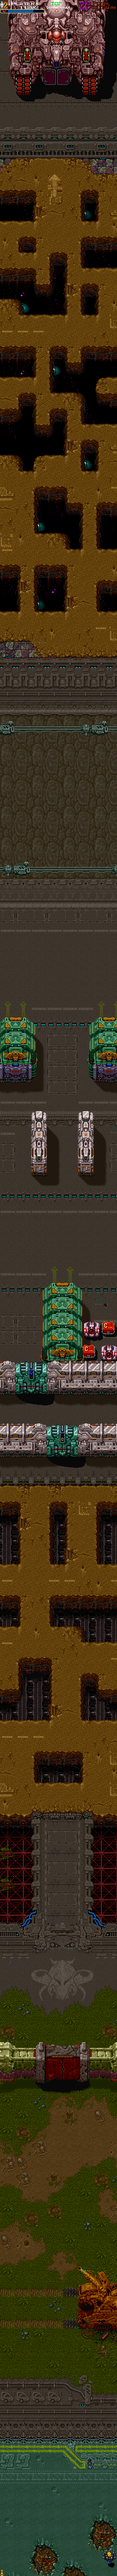
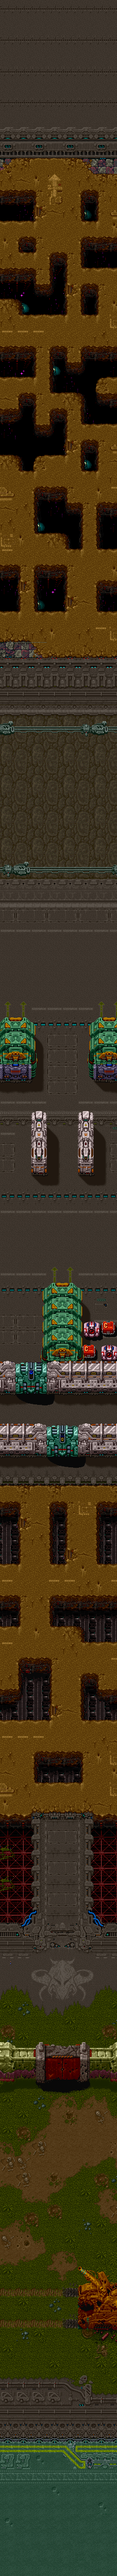
UI Welcome implemented and lvl 2 full explorable

diff --git a/Outzone/Module_Welcome.cpp b/Outzone/Module_Welcome.cpp
@@ -2,57 +2,48 @@
 #include "Application.h"
 #include "ModuleTextures.h"
 #include "ModuleRender.h"
+#include "Module_Welcome.h"
 #include "Module_lvl_1.h"
-#include "Module_lvl_2.h"
 #include "ModuleChangeScene.h"
 #include "ModulePlayer.h"
 #include "ModuleInput.h"
 
-Module_lvl_1::Module_lvl_1()
+Module_Welcome::Module_Welcome()
 {
-
-	// Level 1 
+	// Welcome UI
 	background.x = 0;
 	background.y = 0;
 	background.w = 240;
-	background.h = 3900;
-
+	background.h = 320;
 }
 
-Module_lvl_1::~Module_lvl_1()
-{}
+Module_Welcome::~Module_Welcome(){}
 
-
-
-
-// Load assets
-bool Module_lvl_1::Start()
+bool Module_Welcome::Start()
 {
-	
 	LOG("Loading background assets");
-	graphics = App->textures->Load("level1.png");
-	
+	graphics = App->textures->Load("Welcome_Screen.png");
+	App->render->escalated_screen = 0;
+
 	return true;
 }
-
 // Update: draw background
-update_status Module_lvl_1::Update()
+update_status Module_Welcome::Update()
 {
-	
 
 	if (IsEnabled() == true){
 		// Draw everything --------------------------------------
-		App->render->Blit(graphics, 0, -3570, &background, 0.75f); // lvl 1 background
+		App->render->Blit(graphics, 0, 0, &background, 0.75f);
 		if (App->input->keyboard[SDL_SCANCODE_SPACE] == 1){
-			App->change_scene->ChangeScene(App->lvl_2, App->lvl_1, 1.0f);
+			App->change_scene->ChangeScene(App->welcome, App->lvl_1, 1.0f);
 		}
 	}
 	return UPDATE_CONTINUE;
 }
 
-bool Module_lvl_1::CleanUp()
+bool Module_Welcome::CleanUp()
 {
 	LOG("Unloading lvl 1 stage");
-	App->render->escalated_screen = SCREEN_SIZE * App->lvl_2->map_size * 1.23f;
+	App->render->escalated_screen = SCREEN_SIZE * App->lvl_1->map_size * 1.2f;
 	return true;
 }

diff --git a/Outzone/Module_lvl_2.cpp b/Outzone/Module_lvl_2.cpp
@@ -7,6 +7,7 @@
 #include "ModuleChangeScene.h"
 #include "ModuleInput.h"
 #include "ModulePlayer.h"
+
 Module_lvl_2::Module_lvl_2()
 {
 
@@ -26,17 +27,19 @@ bool Module_lvl_2::Start()
 {
 	LOG("Loading background assets");
 	graphics = App->textures->Load("level2.png");
-	App->player->Enable();
+	
 	return true;
 }
 
 // Update: draw background
 update_status Module_lvl_2::Update()
 {
-	// Draw everything --------------------------------------
-	App->render->Blit(graphics, 0, -3580, &background, 0.75f); // lvl 2 background
-	if (App->input->keyboard[SDL_SCANCODE_SPACE] == 1){
-		App->change_scene->ChangeScene(App->lvl_1, App->lvl_2, 1.0f);
+	if (IsEnabled() == true){
+		// Draw everything --------------------------------------
+		App->render->Blit(graphics, 0, -4940, &background, 0.75f); // lvl 2 background
+		if (App->input->keyboard[SDL_SCANCODE_SPACE] == 1){
+			App->change_scene->ChangeScene(App->lvl_1, App->lvl_2, 1.0f);
+		}
 	}
 	return UPDATE_CONTINUE;
 }
@@ -44,6 +47,6 @@ update_status Module_lvl_2::Update()
 bool Module_lvl_2::CleanUp()
 {
 	LOG("Unloading lvl 2 stage");
-	App->player->Disable();
+	
 	return true;
 }

diff --git a/Outzone/ModuleChangeScene.cpp b/Outzone/ModuleChangeScene.cpp
@@ -6,6 +6,7 @@
 #include "SDL/include/SDL_timer.h"
 #include "Module_lvl_1.h"
 #include "Module_lvl_2.h"
+#include "Module_Welcome.h"
 #include "ModuleChangeScene.h"
 
 ModuleChangeScene::ModuleChangeScene()
@@ -39,15 +40,29 @@ update_status ModuleChangeScene::Update()
 	{
 		if (now >= total_time)
 		{
-			// TODO 2: enable / disable the modules received when FadeToBlacks() gets called
-			if (App->lvl_1->IsEnabled()){
-				App->lvl_1->Disable();
-				App->lvl_2->Enable();
-			}
-			else{
-				App->lvl_2->Disable();
+			
+			if (App->welcome->IsEnabled())
+			{
+				App->welcome->Disable();
 				App->lvl_1->Enable();
 			}
+
+			else {
+				if (App->lvl_1->IsEnabled())
+				{
+					App->lvl_1->Disable();
+					App->lvl_2->Enable();
+				}
+
+				else{
+					if (App->lvl_2->IsEnabled())
+					{
+						App->lvl_2->Disable();
+						App->lvl_1->Enable();
+					}
+				}
+			}
+
 			// ---
 			total_time += total_time;
 			start_time = SDL_GetTicks();

diff --git a/Outzone/ModuleRender.cpp b/Outzone/ModuleRender.cpp
@@ -4,6 +4,7 @@
 #include "ModuleWindow.h"
 #include "ModuleInput.h"
 #include "Module_lvl_1.h"
+#include "Module_lvl_2.h"
 #include "SDL/include/SDL.h"
 
 
@@ -51,8 +52,8 @@ update_status ModuleRender::PreUpdate()
 
 update_status ModuleRender::Update()	
 {
-	int escalated_screen = SCREEN_SIZE * MAP_SIZE * 1.2f;
-	int speed = 10;
+	
+	int speed = 100;
 
 	if (App->input->keyboard[SDL_SCANCODE_UP] == 1 && camera.y < escalated_screen){
 		camera.y += speed;
@@ -89,6 +90,7 @@ bool ModuleRender::Blit(SDL_Texture* texture, int x, int y, SDL_Rect* section, f
 {
 	bool ret = true;
 	SDL_Rect rect;
+
 	rect.x = (int)(camera.x * speed) + x * SCREEN_SIZE;
 	rect.y = (int)(camera.y * speed) + y * SCREEN_SIZE;
 

diff --git a/Outzone/Module_Welcome.h b/Outzone/Module_Welcome.h
@@ -1,5 +1,5 @@
-#ifndef __lvl_2__
-#define __lvl_2__
+#ifndef __ModuleWelcome_H__
+#define __ModuleWelcome_H__
 
 #include "Module.h"
 #include "Animation.h"
@@ -7,11 +7,11 @@
 
 struct SDL_Texture;
 
-class Module_lvl_2 : public Module
+class Module_Welcome : public Module
 {
 public:
-	Module_lvl_2();
-	~Module_lvl_2();
+	Module_Welcome();
+	~Module_Welcome();
 
 	bool Start();
 	update_status Update();
@@ -21,7 +21,7 @@ public:
 
 	SDL_Texture* graphics = nullptr;
 	SDL_Rect background;
-	uint map_size = 5279;
+
 };
 
 #endif

diff --git a/Outzone/Application.cpp b/Outzone/Application.cpp
@@ -7,6 +7,7 @@
 #include "Module_lvl_1.h"
 #include "Module_lvl_2.h"
 #include "ModulePlayer.h"
+#include "Module_Welcome.h"
 #include"ModuleChangeScene.h"
 
 Application::Application()
@@ -20,6 +21,7 @@ Application::Application()
 	modules[6] = player = new ModulePlayer();
 	modules[7] = audio = new ModuleAudio();
 	modules[8] = change_scene = new ModuleChangeScene();
+	modules[9] = welcome = new Module_Welcome();
 }	
 
 Application::~Application()

diff --git a/Outzone/Application.h b/Outzone/Application.h
@@ -3,7 +3,7 @@
 
 #include "Globals.h"
 
-#define NUM_MODULES 9
+#define NUM_MODULES 10
 
 class ModuleWindow;
 class ModuleInput;
@@ -14,6 +14,7 @@ class Module_lvl_2;
 class ModulePlayer;
 class ModuleAudio;
 class ModuleChangeScene;
+class Module_Welcome;
 class Module;
 
 class Application
@@ -30,6 +31,7 @@ public:
 	ModulePlayer* player;
 	ModuleAudio* audio;
 	ModuleChangeScene* change_scene;
+	Module_Welcome* welcome;
 
 public:
 

diff --git a/Outzone/Globals.h b/Outzone/Globals.h
@@ -21,13 +21,13 @@ enum update_status
 typedef unsigned int uint;
 
 // Configuration -----------
-#define SCREEN_SIZE 3
+#define SCREEN_SIZE 2
 #define SCREEN_WIDTH 240
 #define SCREEN_HEIGHT 320
 #define WIN_FULLSCREEN 0
 #define WIN_FULLSCREEN_DESKTOP 0
 #define WIN_BORDERLESS 0
-#define WIN_RESIZABLE 0
+#define WIN_RESIZABLE 1
 #define REN_VSYNC 1
 
 #endif // __GLOBALS_H__

diff --git a/Outzone/ModuleRender.h b/Outzone/ModuleRender.h
@@ -24,6 +24,7 @@ public:
 public:
 	SDL_Renderer* renderer = nullptr;
 	SDL_Rect camera;
+	uint escalated_screen;
 };
 
 #endif //__ModuleRenderer_H__

diff --git a/Outzone/Module_lvl_1.h b/Outzone/Module_lvl_1.h
@@ -20,7 +20,7 @@ public:
 	
 	SDL_Texture* graphics = nullptr;
 	SDL_Rect background;
-    #define MAP_SIZE 3896
+	uint map_size = 3896;
 };
 
 #endif
